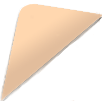
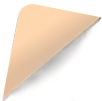
考试页面

diff --git a/EduSite/Statics/css/edu/student/exam_sheet.css b/EduSite/Statics/css/edu/student/exam_sheet.css
@@ -5,7 +5,7 @@ html {
 }
 
 body {    
-    background-image: url('/Statics/images/BGs/classroom6-bg.jpg');
+    background-image: url('/Statics/images/BGs/exam_bg.jpg');
     background-blend-mode: normal;
     background-size: cover; 
     background-repeat: no-repeat;
@@ -24,76 +24,65 @@ body {
     /* border: 0.12rem dotted; */
 }
 
-#info_panel {
-    text-align: center;    
+#info_panel {   
     position: fixed;
     /* border: 0.0625rem dotted; */
-    padding-top: 1rem;
-    width: 19.5rem;
-    left: 0.75rem;
+    width: 16rem;
+    text-align: center;
 }
 
-#statistic_main {  
-    width: 12rem;
-    background: linear-gradient(#ffffff,#cccccc);
+#time_panel {  
+    width: 100%;
+    /* background: linear-gradient(#ffffff,#cccccc);
     border-style: solid;
     border-width: 0.05rem;
     border-radius: 0.35rem;
     border-color: white;
-
     border-image-source: url('/Statics/images/dialog.png');
     border-image-slice: 40% 40% 40% 40%;
     border-image-width: 4rem 4rem;
     border-image-outset: 0rem 0.1rem 1.55rem 0rem;
-    border-image-repeat: fill;
-
-    margin-left: auto;
+    border-image-repeat: fill; */
+    color: white;
+    margin-left: 0.4rem;
     margin-right: 3.5rem;
-    padding-bottom: 1rem;
-    text-align: center;
+
+    font-size: 2rem;
+    /* text-align: center; */
+}
+
+#clock_icon {
+    position: relative;
+    display: inline-block;
+    font-size: inherit;
+    top: 0.4em;
+    width: 1.5em;
+    height: 1.5em;    
+    content: url('/Statics/images/clock.png');
+}
+
+#clock_time {
+    text-shadow: 0 0.125rem 0.125rem rgb(61, 61, 61);
 }
 
 #btn_back {
     text-decoration: none;
 }
 
-#q_progress {
-    position: absolute;
-    top: 0rem;
-    right: 0rem;
-    width: 2rem;
-    /* border: 0.12rem dotted; */
-}
-
-#q_progress ul {
-    padding-left: 0;
-    list-style: none;
-}
-
 #teacher {
     position: absolute;    
-    top: 10.5rem;
-    width: 18rem;
-    height: 33.5rem;    
-}
-
-.teacher-normal {
-    content: url('/Statics/images/t-normal.png');
-}
-
-.teacher-right {
-    content: url('/Statics/images/t-right.png');
-}
-
-.teacher-wrong {
-    content: url('/Statics/images/t-wrong.png');
+    top: 8rem;
+    left: 1rem;
+    width: 16rem;
+    height: 37rem;    
+    content: url('/Statics/images/nikki4.png');
 }
 
 #sheet_panel {
     position: absolute;
     /* border: 0.0625rem solid; */
-    width: 38.125rem;
-    left: 20rem;    
+    width: 40.125rem;
+    left: 18rem;    
 }
 
 #sheet_bg_out {
@@ -113,20 +102,9 @@ body {
     /* border-right-color: #207aa3;
     border-bottom-color: #207aa3; */
     border-radius: 1rem;
-    box-shadow: 0.125rem 0.25rem 0.25rem #b18f6f;
+    box-shadow: 0.25rem 0.325rem 0.325rem #b47c5f;
 }
 
-#sheet_edge {
-    position: absolute;
-    width: 106%;
-    height: 92%;
-    background-size: 3.8125rem 4.125rem;
-    background-image: url('/Statics/images/sheet_edge.png');   
-    background-repeat: repeat-y; 
-    background-position: right top;
-    
-    pointer-events: none;
-}
 
 #quesion_desc_main {
     font-family: HK_Yuan7;
@@ -150,7 +128,7 @@ body {
     background: linear-gradient(#ffe5cb,#ffd7af);
 
     border-radius: 0.75rem;
-    box-shadow: 0.1875rem 0.1875rem 0.125rem #b18f6f;
+    box-shadow: 0.1875rem 0.1875rem 0.125rem #cfb092;
 }
 
 #question_type {
@@ -171,7 +149,7 @@ body {
     border-bottom-style: dashed;
     border-bottom-width: 0.1875rem;
     border-bottom-color: #ff9d7fa0;
-    background-image: url('/Statics/images/house-icon.png');
+    /* background-image: url('/Statics/images/house-icon.png'); */
     background-repeat: no-repeat; 
     background-position: right bottom;
     padding-bottom: 0rem;
@@ -262,41 +240,81 @@ body {
     white-space: nowrap;
 }
 
-.icon-checked-no {
-    transition-duration: 1s;
-    transition-property: transform;
-    transition-timing-function: ease;
-    transform: rotate(360deg);    
-}
-
-.icon-checked-key {
-    content: url('/Statics/images/icon-correct.png');
-}
-
-.icon-checked-no {
-    content: url('/Statics/images/icon-wrong.png');
-}
-
-.icon-no-key {
-    content: url('/Statics/images/icon-missed.png');
-}
-
-.icon-no-no {
-    content: '';
-}
-
 #stat_panel {
     margin-left: 2.125rem;
     margin-bottom: 1.25rem;
     text-align: center;
 }
 
-#corner_icon {
+#prev_panel, #next_panel {
     position: absolute;
-    width: 4rem;
-    height: 4rem;
-    right: 0rem;
     bottom: 0rem;
+}
+
+#prev_panel { left: 0rem; }
+#next_panel { right: 0rem; }
+
+#next_index {
+    font-size: 1.2em;
+    font-weight: bolder;
+    position: absolute;
+    bottom: 0.3rem;
+    color: #b18f6f;
+    right: 0.6em; 
+}
+
+
+#prev_tips, #next_tips {
+    font-size: 0.8em;
+    position: absolute;
+    color: gray;
+    bottom: 0.4rem;
+    width: 3rem;
+}
+
+#prev_tips {
+    left: 2.2em;
+}
+
+#next_tips {
+    right: 2.8em;
+}
+
+#btn_next, #btn_Prev {
+    position: absolute;
+    transition-duration: 0.4s;
+    transition-property: width height transform;
+
+    bottom: 0rem;
+}
+
+#btn_Prev {
+    transform: scaleX(-1);
+    left: 0rem;
+    width: 1.6rem;
+    height: 1.6rem;
+}
+
+#btn_Prev:hover {
+    width: 3.0rem;
+    height: 2.8rem;
+    left: -0.21rem;
+    bottom: 0.2rem;    
+    transform: scaleX(-1) rotateZ(-12deg);
+}
+
+#btn_next {
+    right: 0rem;
+    width: 2.2rem;
+    height: 2.2rem;
+}
+
+#btn_next:hover {
+    width: 4.0rem;
+    height: 3.8rem;
+    right: -0.3rem;
+    bottom: 0.3rem;    
+    transform: rotateZ(-12deg);
 }
 
 #show_panel {
@@ -599,9 +617,6 @@ body {
     font-size: 2rem;
 }
 
-#btn_next {
-    animation: anim-alarm 1s infinite;
-}
 
 @keyframes anim-alarm {
     0% {

diff --git a/EduSite/Templates/course/Examination.html b/EduSite/Templates/course/Examination.html
@@ -11,23 +11,16 @@
 </form>
 <div id="root_panel"> 
     <div id="info_panel">
-        <div id="statistic_main">
-            <!-- <span class="badge badge-info" id="question_index">0</span><span class="align-text-top" id="question_count">/0</span> -->
-            <h5>
-            <span class="gold-icon-big succeed" style="vertical-align:middle;"></span> x <span class="badge badge-pill badge-success" style="vertical-align:middle;" id="stat_right">0</span>
-            <span class="badge badge-pill badge-danger" id="stat_wrong" hidden>0</span> <span class="gold-icon-big failed" hidden></span>
-            </h5>
+        <div id="time_panel">
+            <span id="clock_icon">1</span> <span id="clock_time">12:32:12</span>
+            <br/>
+            <br/>
             <!-- <button id="btn_back" class="btn btn-warning btn-lg align-right">结束答题</button> -->
             <a href="{% url 'user:student' %}" id="btn_back" class="btn-circle-orange"><span class="arrow-left"></span> 结束答题</a>
         </div>
-        <div id='q_progress'>
-            <ul id="progress_list">
-                <li><span class="gold_icon"></li>
-            </ul>
-        </div>
-        <div id="teacher" class="teacher-normal" alt="Card image cap"></div>
-    </div>
-    {{exam}}
+
+        <div id="teacher" alt="Card image cap"></div>
+    </div>    
     <div id="sheet_panel" >
         <div id="sheet_bg_out">             
             <div id="sheet_bg_in">            
@@ -44,10 +37,17 @@
                     </div>                    
                     <p id="q_type_tips"></p>
                     <div id="stat_panel">
-                        <button id="btn_submit" class="btn-round-sky" onfocus="this.blur()" tabindex="-1" >提 交</button>
-                        <button id="btn_next" class="btn-round-wine" onfocus="this.blur()" tabindex="-1">继 续</button>
-                        <button id="btn_Prev" hidden>Preview</button>
-                        <img id="corner_icon" src="{% static 'images/corner.png' %}"/>
+                        <button id="btn_submit" class="btn-round-sky" onfocus="this.blur()" tabindex="-1" >提 交</button>                    
+                    </div>
+                    
+                    <div id="prev_panel">
+                        <label id="prev_tips">上一题</label>
+                        <img id="btn_Prev" src="{% static 'images/corner.png' %}" draggable="false"/>
+                    </div>
+                    <div id="next_panel">
+                        <label id="next_index"></label>
+                        <label id="next_tips">下一题</label>
+                        <img id="btn_next" src="{% static 'images/corner.png' %}" draggable="false"/>
                     </div>
                 </div>                
             </div>

diff --git a/EduSite/Statics/js/course/exam-sheet.js b/EduSite/Statics/js/course/exam-sheet.js
@@ -1,0 +1,56 @@
+$(document).ready(onInit);
+
+
+var qType_list = [];
+var result_list = [];   // complete, result, answer
+var qList_obj = null;
+var cur_idx = -1;
+var question_sum = 10;
+
+function onInit(event) {  
+    csrf_Setup();
+
+    $('#btn_next').click(onNextClk);
+    $('#btn_Prev').click(onPrevClk);
+    $('#btn_back_main').click(onBackMain);
+    ajaxSubmitJson(document.getElementById('qlist_form'), onQuestionListGet, failFunc);
+}
+
+var cur_idx = -1;
+
+function onNextClk(event) {
+    var lastnextidx = cur_idx;
+    cur_idx = Math.min(cur_idx + 1, question_sum - 1);
+    if (lastnextidx != cur_idx) {
+        update();
+    }
+}
+
+function onPrevClk(event) {
+    var lastnextidx = cur_idx;
+    cur_idx = Math.max(cur_idx - 1, 0);
+    if (lastnextidx != cur_idx) {
+        update();
+    }
+}
+
+function update() {
+    updateStat();
+}
+
+function updateStat() {
+    if(cur_idx<=0) {
+        $('#prev_panel').hide();
+    }
+    else {
+        $('#prev_panel').show();
+    }
+
+    if (cur_idx<question_sum-1) {
+        $('#next_panel').show();
+        $('#next_index').html(cur_idx+2);
+    }
+    else {
+        $('#next_panel').hide();
+    }
+}
